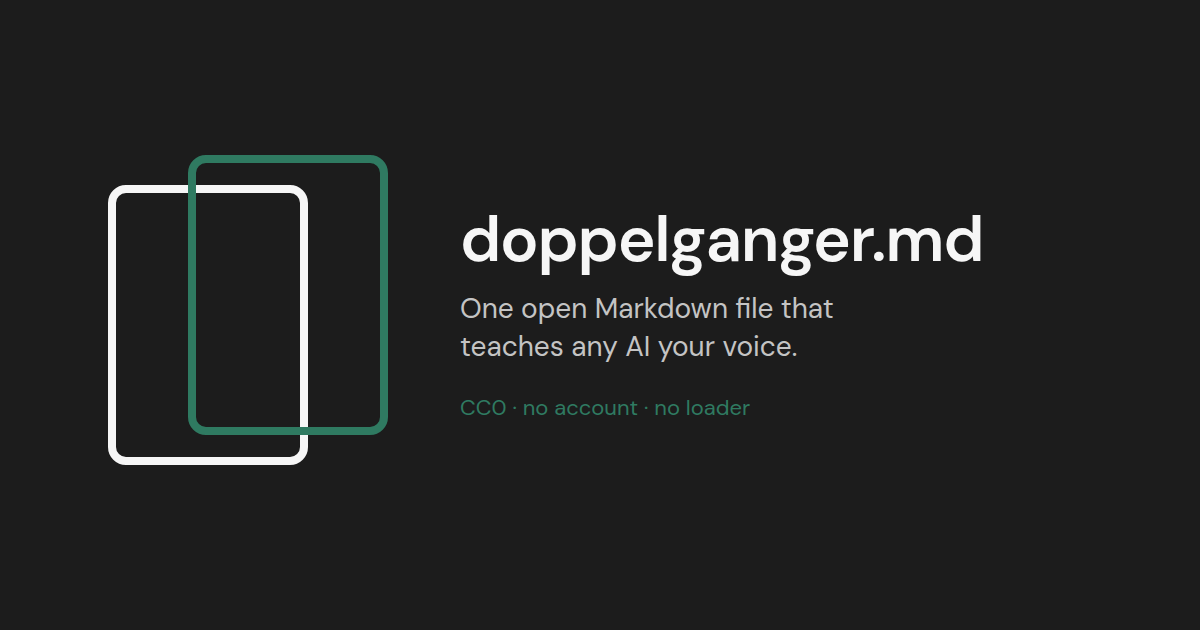
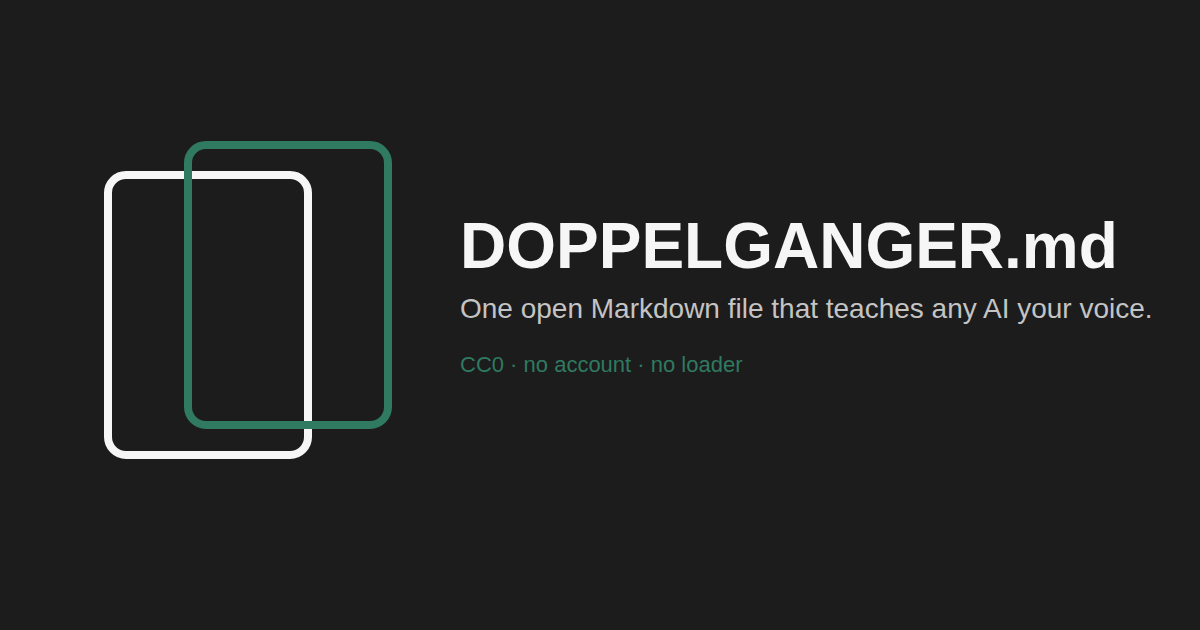
feat(site): uppercase visible DOPPELGANGER.md brand labels
Keep https://doppelganger.md as the host in canonicals, og:url, sitemap, and DNS strings.

diff --git a/docs/faq.html b/docs/faq.html
@@ -3,10 +3,10 @@
 <head>
   <meta charset="utf-8">
   <meta name="viewport" content="width=device-width, initial-scale=1">
-  <title>FAQ · doppelganger.md</title>
+  <title>FAQ · DOPPELGANGER.md</title>
   <meta name="description" content="Short answers on AGENTS.md, BRAND.md, license, secrets, and why there is no loader.">
   <link rel="canonical" href="https://doppelganger.md/faq.html">
-  <meta property="og:title" content="FAQ · doppelganger.md">
+  <meta property="og:title" content="FAQ · DOPPELGANGER.md">
   <meta property="og:description" content="Short answers on AGENTS.md, BRAND.md, license, secrets, and why there is no loader.">
   <meta property="og:url" content="https://doppelganger.md/faq.html">
   <meta property="og:type" content="website">
@@ -14,10 +14,10 @@
   <meta property="og:image:type" content="image/png">
   <meta property="og:image:width" content="1200">
   <meta property="og:image:height" content="630">
-  <meta property="og:image:alt" content="doppelganger.md. One open Markdown file that teaches any AI your voice.">
+  <meta property="og:image:alt" content="DOPPELGANGER.md. One open Markdown file that teaches any AI your voice.">
   <meta name="twitter:card" content="summary_large_image">
   <meta name="twitter:image" content="https://doppelganger.md/og.png">
-  <meta name="twitter:image:alt" content="doppelganger.md. One open Markdown file that teaches any AI your voice.">
+  <meta name="twitter:image:alt" content="DOPPELGANGER.md. One open Markdown file that teaches any AI your voice.">
   <meta name="color-scheme" content="dark light">
   <link rel="icon" href="favicon.svg" type="image/svg+xml">
   <script type="application/ld+json">
@@ -94,7 +94,7 @@
       "name": "Where is the canonical site?",
       "acceptedAnswer": {
         "@type": "Answer",
-        "text": "doppelganger.md. Until DNS points there, serve docs/ on GitHub Pages or run node scripts/site.mjs preview."
+        "text": "https://doppelganger.md. Until DNS points there, serve docs/ on GitHub Pages or run node scripts/site.mjs preview."
       }
     }
   ]
@@ -144,7 +144,7 @@
   <a class="skip" href="#content">Skip to content</a>
   <header class="site-header">
     <div class="shell">
-      <a class="brand" href="index.html">doppelganger.md</a>
+      <a class="brand" href="index.html">DOPPELGANGER.md</a>
       <nav class="nav-wide" aria-label="Site"><ul><li><a class="nav-link" href="index.html">Home</a></li><li><a class="nav-link" href="structure.html">Structure</a></li><li><a class="nav-link" href="load.html">Load</a></li><li><a class="nav-link" href="example.html">Example</a></li><li><a class="nav-link" href="faq.html" aria-current="page">FAQ</a></li><li><a class="nav-link" href="spec.html">Spec</a></li></ul></nav>
       <div class="tools">
         <button class="theme-toggle" type="button" aria-label="Switch to light theme" aria-pressed="true">
@@ -197,7 +197,7 @@
 <p>The spec, the example, and this site are public domain under CC0 1.0. Your own file can use another license. Name it in Meta.</p>
 
 <h2>Where is the canonical site?</h2>
-<p><code>doppelganger.md</code>. Until DNS points there, serve <code>docs/</code> on GitHub Pages or run <code>node scripts/site.mjs preview</code>.</p>
+<p><code>https://doppelganger.md</code>. Until DNS points there, serve <code>docs/</code> on GitHub Pages or run <code>node scripts/site.mjs preview</code>.</p>
 
   </main>
   <footer class="site-footer">

diff --git a/docs/index.html b/docs/index.html
@@ -3,10 +3,10 @@
 <head>
   <meta charset="utf-8">
   <meta name="viewport" content="width=device-width, initial-scale=1">
-  <title>Home · doppelganger.md</title>
+  <title>Home · DOPPELGANGER.md</title>
   <meta name="description" content="One open Markdown file that teaches any AI your voice.">
   <link rel="canonical" href="https://doppelganger.md/index.html">
-  <meta property="og:title" content="Home · doppelganger.md">
+  <meta property="og:title" content="Home · DOPPELGANGER.md">
   <meta property="og:description" content="One open Markdown file that teaches any AI your voice.">
   <meta property="og:url" content="https://doppelganger.md/index.html">
   <meta property="og:type" content="website">
@@ -14,17 +14,17 @@
   <meta property="og:image:type" content="image/png">
   <meta property="og:image:width" content="1200">
   <meta property="og:image:height" content="630">
-  <meta property="og:image:alt" content="doppelganger.md. One open Markdown file that teaches any AI your voice.">
+  <meta property="og:image:alt" content="DOPPELGANGER.md. One open Markdown file that teaches any AI your voice.">
   <meta name="twitter:card" content="summary_large_image">
   <meta name="twitter:image" content="https://doppelganger.md/og.png">
-  <meta name="twitter:image:alt" content="doppelganger.md. One open Markdown file that teaches any AI your voice.">
+  <meta name="twitter:image:alt" content="DOPPELGANGER.md. One open Markdown file that teaches any AI your voice.">
   <meta name="color-scheme" content="dark light">
   <link rel="icon" href="favicon.svg" type="image/svg+xml">
   <script type="application/ld+json">
 {
   "@context": "https://schema.org",
   "@type": "WebSite",
-  "name": "doppelganger.md",
+  "name": "DOPPELGANGER.md",
   "url": "https://doppelganger.md/",
   "description": "One open Markdown file that teaches any AI your voice."
 }
@@ -73,7 +73,7 @@
   <a class="skip" href="#content">Skip to content</a>
   <header class="site-header">
     <div class="shell">
-      <a class="brand" href="index.html">doppelganger.md</a>
+      <a class="brand" href="index.html">DOPPELGANGER.md</a>
       <nav class="nav-wide" aria-label="Site"><ul><li><a class="nav-link" href="index.html" aria-current="page">Home</a></li><li><a class="nav-link" href="structure.html">Structure</a></li><li><a class="nav-link" href="load.html">Load</a></li><li><a class="nav-link" href="example.html">Example</a></li><li><a class="nav-link" href="faq.html">FAQ</a></li><li><a class="nav-link" href="spec.html">Spec</a></li></ul></nav>
       <div class="tools">
         <button class="theme-toggle" type="button" aria-label="Switch to light theme" aria-pressed="true">

diff --git a/docs/spec.html b/docs/spec.html
@@ -3,10 +3,10 @@
 <head>
   <meta charset="utf-8">
   <meta name="viewport" content="width=device-width, initial-scale=1">
-  <title>Specification · doppelganger.md</title>
+  <title>Specification · DOPPELGANGER.md</title>
   <meta name="description" content="Spec 0.1 for DOPPELGANGER.md: English Markdown that teaches an AI your writing voice.">
   <link rel="canonical" href="https://doppelganger.md/spec.html">
-  <meta property="og:title" content="Specification · doppelganger.md">
+  <meta property="og:title" content="Specification · DOPPELGANGER.md">
   <meta property="og:description" content="Spec 0.1 for DOPPELGANGER.md: English Markdown that teaches an AI your writing voice.">
   <meta property="og:url" content="https://doppelganger.md/spec.html">
   <meta property="og:type" content="website">
@@ -14,10 +14,10 @@
   <meta property="og:image:type" content="image/png">
   <meta property="og:image:width" content="1200">
   <meta property="og:image:height" content="630">
-  <meta property="og:image:alt" content="doppelganger.md. One open Markdown file that teaches any AI your voice.">
+  <meta property="og:image:alt" content="DOPPELGANGER.md. One open Markdown file that teaches any AI your voice.">
   <meta name="twitter:card" content="summary_large_image">
   <meta name="twitter:image" content="https://doppelganger.md/og.png">
-  <meta name="twitter:image:alt" content="doppelganger.md. One open Markdown file that teaches any AI your voice.">
+  <meta name="twitter:image:alt" content="DOPPELGANGER.md. One open Markdown file that teaches any AI your voice.">
   <meta name="color-scheme" content="dark light">
   <link rel="icon" href="favicon.svg" type="image/svg+xml">
 
@@ -64,7 +64,7 @@
   <a class="skip" href="#content">Skip to content</a>
   <header class="site-header">
     <div class="shell">
-      <a class="brand" href="index.html">doppelganger.md</a>
+      <a class="brand" href="index.html">DOPPELGANGER.md</a>
       <nav class="nav-wide" aria-label="Site"><ul><li><a class="nav-link" href="index.html">Home</a></li><li><a class="nav-link" href="structure.html">Structure</a></li><li><a class="nav-link" href="load.html">Load</a></li><li><a class="nav-link" href="example.html">Example</a></li><li><a class="nav-link" href="faq.html">FAQ</a></li><li><a class="nav-link" href="spec.html" aria-current="page">Spec</a></li></ul></nav>
       <div class="tools">
         <button class="theme-toggle" type="button" aria-label="Switch to light theme" aria-pressed="true">

diff --git a/docs/load.html b/docs/load.html
@@ -3,10 +3,10 @@
 <head>
   <meta charset="utf-8">
   <meta name="viewport" content="width=device-width, initial-scale=1">
-  <title>How to load · doppelganger.md</title>
+  <title>How to load · DOPPELGANGER.md</title>
   <meta name="description" content="Paste, attach, or @ a DOPPELGANGER.md in ChatGPT, Claude, Gemini, or Cursor.">
   <link rel="canonical" href="https://doppelganger.md/load.html">
-  <meta property="og:title" content="How to load · doppelganger.md">
+  <meta property="og:title" content="How to load · DOPPELGANGER.md">
   <meta property="og:description" content="Paste, attach, or @ a DOPPELGANGER.md in ChatGPT, Claude, Gemini, or Cursor.">
   <meta property="og:url" content="https://doppelganger.md/load.html">
   <meta property="og:type" content="website">
@@ -14,10 +14,10 @@
   <meta property="og:image:type" content="image/png">
   <meta property="og:image:width" content="1200">
   <meta property="og:image:height" content="630">
-  <meta property="og:image:alt" content="doppelganger.md. One open Markdown file that teaches any AI your voice.">
+  <meta property="og:image:alt" content="DOPPELGANGER.md. One open Markdown file that teaches any AI your voice.">
   <meta name="twitter:card" content="summary_large_image">
   <meta name="twitter:image" content="https://doppelganger.md/og.png">
-  <meta name="twitter:image:alt" content="doppelganger.md. One open Markdown file that teaches any AI your voice.">
+  <meta name="twitter:image:alt" content="DOPPELGANGER.md. One open Markdown file that teaches any AI your voice.">
   <meta name="color-scheme" content="dark light">
   <link rel="icon" href="favicon.svg" type="image/svg+xml">
 
@@ -64,7 +64,7 @@
   <a class="skip" href="#content">Skip to content</a>
   <header class="site-header">
     <div class="shell">
-      <a class="brand" href="index.html">doppelganger.md</a>
+      <a class="brand" href="index.html">DOPPELGANGER.md</a>
       <nav class="nav-wide" aria-label="Site"><ul><li><a class="nav-link" href="index.html">Home</a></li><li><a class="nav-link" href="structure.html">Structure</a></li><li><a class="nav-link" href="load.html" aria-current="page">Load</a></li><li><a class="nav-link" href="example.html">Example</a></li><li><a class="nav-link" href="faq.html">FAQ</a></li><li><a class="nav-link" href="spec.html">Spec</a></li></ul></nav>
       <div class="tools">
         <button class="theme-toggle" type="button" aria-label="Switch to light theme" aria-pressed="true">

diff --git a/docs/example.html b/docs/example.html
@@ -3,10 +3,10 @@
 <head>
   <meta charset="utf-8">
   <meta name="viewport" content="width=device-width, initial-scale=1">
-  <title>Example · doppelganger.md</title>
+  <title>Example · DOPPELGANGER.md</title>
   <meta name="description" content="A fictional Mara Ellison DOPPELGANGER.md. Format sample, not a biography.">
   <link rel="canonical" href="https://doppelganger.md/example.html">
-  <meta property="og:title" content="Example · doppelganger.md">
+  <meta property="og:title" content="Example · DOPPELGANGER.md">
   <meta property="og:description" content="A fictional Mara Ellison DOPPELGANGER.md. Format sample, not a biography.">
   <meta property="og:url" content="https://doppelganger.md/example.html">
   <meta property="og:type" content="website">
@@ -14,10 +14,10 @@
   <meta property="og:image:type" content="image/png">
   <meta property="og:image:width" content="1200">
   <meta property="og:image:height" content="630">
-  <meta property="og:image:alt" content="doppelganger.md. One open Markdown file that teaches any AI your voice.">
+  <meta property="og:image:alt" content="DOPPELGANGER.md. One open Markdown file that teaches any AI your voice.">
   <meta name="twitter:card" content="summary_large_image">
   <meta name="twitter:image" content="https://doppelganger.md/og.png">
-  <meta name="twitter:image:alt" content="doppelganger.md. One open Markdown file that teaches any AI your voice.">
+  <meta name="twitter:image:alt" content="DOPPELGANGER.md. One open Markdown file that teaches any AI your voice.">
   <meta name="color-scheme" content="dark light">
   <link rel="icon" href="favicon.svg" type="image/svg+xml">
 
@@ -64,7 +64,7 @@
   <a class="skip" href="#content">Skip to content</a>
   <header class="site-header">
     <div class="shell">
-      <a class="brand" href="index.html">doppelganger.md</a>
+      <a class="brand" href="index.html">DOPPELGANGER.md</a>
       <nav class="nav-wide" aria-label="Site"><ul><li><a class="nav-link" href="index.html">Home</a></li><li><a class="nav-link" href="structure.html">Structure</a></li><li><a class="nav-link" href="load.html">Load</a></li><li><a class="nav-link" href="example.html" aria-current="page">Example</a></li><li><a class="nav-link" href="faq.html">FAQ</a></li><li><a class="nav-link" href="spec.html">Spec</a></li></ul></nav>
       <div class="tools">
         <button class="theme-toggle" type="button" aria-label="Switch to light theme" aria-pressed="true">

diff --git a/docs/structure.html b/docs/structure.html
@@ -3,10 +3,10 @@
 <head>
   <meta charset="utf-8">
   <meta name="viewport" content="width=device-width, initial-scale=1">
-  <title>Structure · doppelganger.md</title>
+  <title>Structure · DOPPELGANGER.md</title>
   <meta name="description" content="MUST, SHOULD, and MAY sections of a DOPPELGANGER.md voice file.">
   <link rel="canonical" href="https://doppelganger.md/structure.html">
-  <meta property="og:title" content="Structure · doppelganger.md">
+  <meta property="og:title" content="Structure · DOPPELGANGER.md">
   <meta property="og:description" content="MUST, SHOULD, and MAY sections of a DOPPELGANGER.md voice file.">
   <meta property="og:url" content="https://doppelganger.md/structure.html">
   <meta property="og:type" content="website">
@@ -14,10 +14,10 @@
   <meta property="og:image:type" content="image/png">
   <meta property="og:image:width" content="1200">
   <meta property="og:image:height" content="630">
-  <meta property="og:image:alt" content="doppelganger.md. One open Markdown file that teaches any AI your voice.">
+  <meta property="og:image:alt" content="DOPPELGANGER.md. One open Markdown file that teaches any AI your voice.">
   <meta name="twitter:card" content="summary_large_image">
   <meta name="twitter:image" content="https://doppelganger.md/og.png">
-  <meta name="twitter:image:alt" content="doppelganger.md. One open Markdown file that teaches any AI your voice.">
+  <meta name="twitter:image:alt" content="DOPPELGANGER.md. One open Markdown file that teaches any AI your voice.">
   <meta name="color-scheme" content="dark light">
   <link rel="icon" href="favicon.svg" type="image/svg+xml">
 
@@ -64,7 +64,7 @@
   <a class="skip" href="#content">Skip to content</a>
   <header class="site-header">
     <div class="shell">
-      <a class="brand" href="index.html">doppelganger.md</a>
+      <a class="brand" href="index.html">DOPPELGANGER.md</a>
       <nav class="nav-wide" aria-label="Site"><ul><li><a class="nav-link" href="index.html">Home</a></li><li><a class="nav-link" href="structure.html" aria-current="page">Structure</a></li><li><a class="nav-link" href="load.html">Load</a></li><li><a class="nav-link" href="example.html">Example</a></li><li><a class="nav-link" href="faq.html">FAQ</a></li><li><a class="nav-link" href="spec.html">Spec</a></li></ul></nav>
       <div class="tools">
         <button class="theme-toggle" type="button" aria-label="Switch to light theme" aria-pressed="true">

diff --git a/site/template.html b/site/template.html
@@ -3,10 +3,10 @@
 <head>
   <meta charset="utf-8">
   <meta name="viewport" content="width=device-width, initial-scale=1">
-  <title>{{TITLE}} · doppelganger.md</title>
+  <title>{{TITLE}} · DOPPELGANGER.md</title>
   <meta name="description" content="{{DESCRIPTION}}">
   <link rel="canonical" href="{{CANONICAL}}">
-  <meta property="og:title" content="{{TITLE}} · doppelganger.md">
+  <meta property="og:title" content="{{TITLE}} · DOPPELGANGER.md">
   <meta property="og:description" content="{{DESCRIPTION}}">
   <meta property="og:url" content="{{CANONICAL}}">
   <meta property="og:type" content="website">
@@ -14,10 +14,10 @@
   <meta property="og:image:type" content="image/png">
   <meta property="og:image:width" content="1200">
   <meta property="og:image:height" content="630">
-  <meta property="og:image:alt" content="doppelganger.md. One open Markdown file that teaches any AI your voice.">
+  <meta property="og:image:alt" content="DOPPELGANGER.md. One open Markdown file that teaches any AI your voice.">
   <meta name="twitter:card" content="summary_large_image">
   <meta name="twitter:image" content="{{OG_IMAGE}}">
-  <meta name="twitter:image:alt" content="doppelganger.md. One open Markdown file that teaches any AI your voice.">
+  <meta name="twitter:image:alt" content="DOPPELGANGER.md. One open Markdown file that teaches any AI your voice.">
   <meta name="color-scheme" content="dark light">
   <link rel="icon" href="favicon.svg" type="image/svg+xml">
 {{JSON_LD}}
@@ -64,7 +64,7 @@
   <a class="skip" href="#content">Skip to content</a>
   <header class="site-header">
     <div class="shell">
-      <a class="brand" href="index.html">doppelganger.md</a>
+      <a class="brand" href="index.html">DOPPELGANGER.md</a>
       <nav class="nav-wide" aria-label="Site">{{NAV}}</nav>
       <div class="tools">
         <button class="theme-toggle" type="button" aria-label="Switch to light theme" aria-pressed="true">

diff --git a/site/pages/faq.html b/site/pages/faq.html
@@ -31,4 +31,4 @@
 <p>The spec, the example, and this site are public domain under CC0 1.0. Your own file can use another license. Name it in Meta.</p>
 
 <h2>Where is the canonical site?</h2>
-<p><code>doppelganger.md</code>. Until DNS points there, serve <code>docs/</code> on GitHub Pages or run <code>node scripts/site.mjs preview</code>.</p>
+<p><code>https://doppelganger.md</code>. Until DNS points there, serve <code>docs/</code> on GitHub Pages or run <code>node scripts/site.mjs preview</code>.</p>

diff --git a/PRODUCT.md b/PRODUCT.md
@@ -30,7 +30,7 @@ Inferred from the 2026-09-16 redesign brief. Home copy must never compare the fi
 
 ## Operating Context
 
-Writers keep `DOPPELGANGER.md` on disk or in a repo. They load it in the tools they already use. The spec (`doppelganger-spec: 0.1`) is the source of truth. The site is a landing plus load guide plus one fictional example. Canonical name is doppelganger.md. DNS may come later. Until then, `docs/` is the GitHub Pages payload.
+Writers keep `DOPPELGANGER.md` on disk or in a repo. They load it in the tools they already use. The spec (`doppelganger-spec: 0.1`) is the source of truth. The site is a landing plus load guide plus one fictional example. Canonical host is `https://doppelganger.md`. DNS may come later. Until then, `docs/` is the GitHub Pages payload.
 
 ## Capabilities and Constraints
 
@@ -46,7 +46,7 @@ Writers keep `DOPPELGANGER.md` on disk or in a repo. They load it in the tools t
 
 ## Brand Commitments
 
-- Name: DOPPELGANGER.md / doppelganger.md
+- File name: DOPPELGANGER.md. Host: doppelganger.md.
 - Voice: short, plain English. Cut copy to the bone. No essays. Home carries one short why paragraph under the lede, not a Why section.
 - Home lead: one open Markdown file that teaches any AI your voice. Never `AGENTS.md` on the home lead.
 - Theme: dark by default from the preset's `.dark` block. A header switch to light persists as `theme` in `localStorage`.

diff --git a/DESIGN.md b/DESIGN.md
@@ -1,5 +1,5 @@
 ---
-name: doppelganger.md
+name: DOPPELGANGER.md
 description: One open Markdown file that teaches any AI your voice.
 colors:
   background: "oklch(1 0 0)"
@@ -88,7 +88,7 @@ components:
     textColor: "{colors.foreground}"
 ---
 
-# Design System: doppelganger.md
+# Design System: DOPPELGANGER.md
 
 ## Overview
 
@@ -190,7 +190,7 @@ None on the marketing pages. If one appears, use `--input` and `--ring` from the
 
 ### Navigation
 
-Wordmark left. Subtle translucent bar. Idle links use quiet ink. Current page uses ink and, from 1280, an underline. Two DOM navs exist so CSS can hide one per breakpoint without JavaScript. `display: none` removes the hidden one from the accessibility tree.
+The wordmark is `DOPPELGANGER.md`. Subtle translucent bar. Idle links use quiet ink. Current page uses ink and, from 1280, an underline. Two DOM navs exist so CSS can hide one per breakpoint without JavaScript. `display: none` removes the hidden one from the accessibility tree.
 
 ### Theme toggle
 

diff --git a/README.md b/README.md
@@ -10,7 +10,7 @@ Paste it, attach it, or `@DOPPELGANGER.md`. No account. No hosted loader.
 - [Example voice file](examples/DOPPELGANGER.md) (fictional person)
 - Home Instant Start: **Download example** and **Copy starter prompt**. No account. No hosted loader.
 - Site pages in `docs/` after `node scripts/site.mjs` (Home, Structure, Load, Example, FAQ, Spec)
-- Canonical name: [doppelganger.md](https://doppelganger.md) (DNS may come later)
+- Canonical site: [https://doppelganger.md](https://doppelganger.md) (DNS may come later)
 - Local preview: `node scripts/site.mjs preview` then open http://127.0.0.1:4173/
 - License: [CC0 1.0](LICENSE)
 
